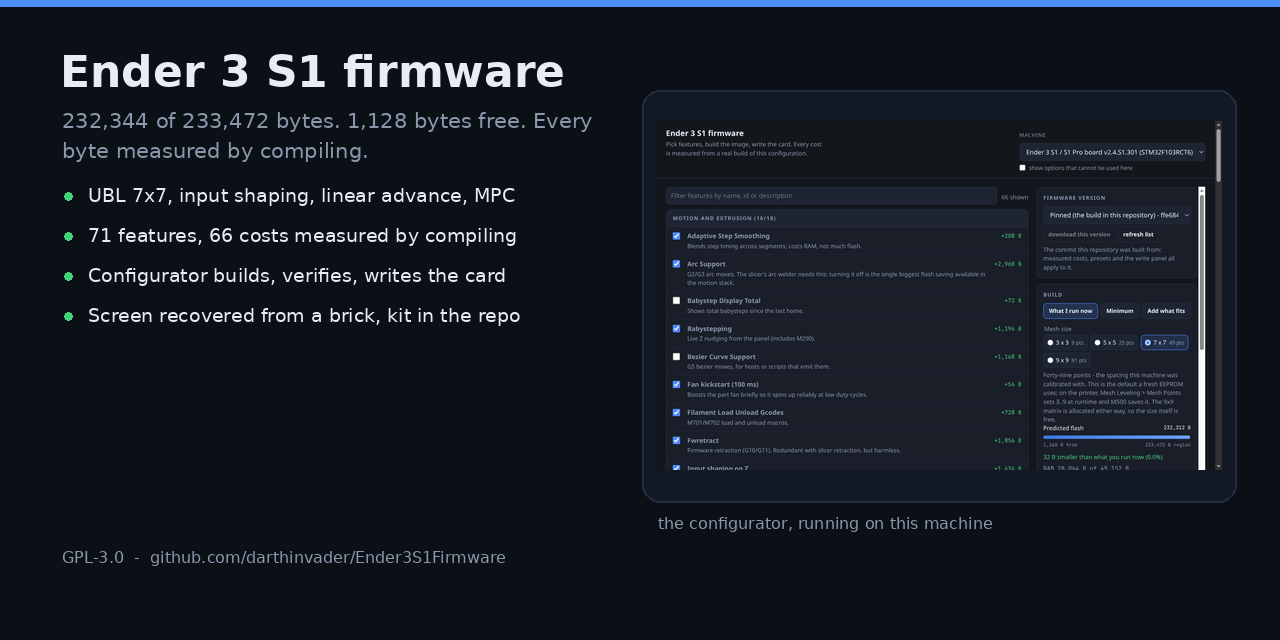
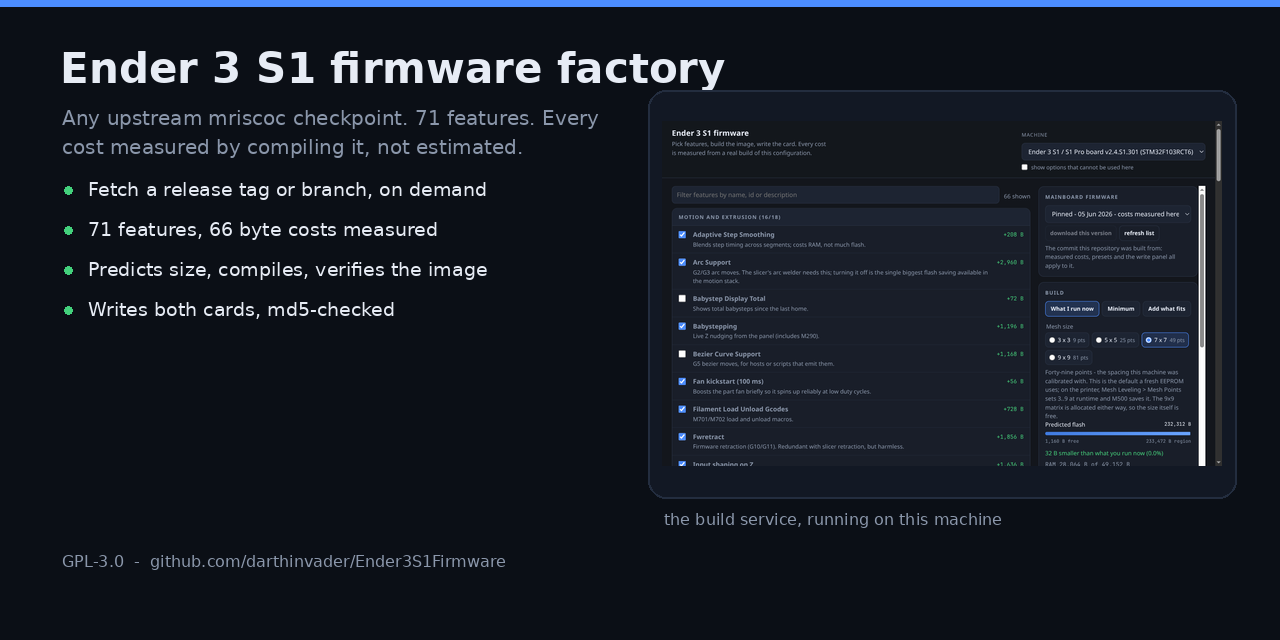
Say what the project is: a build factory, not one printer's firmware
The first screen sold a single build. The project is the service: any upstream
mriscoc checkpoint (tag or branch, fetched on demand), 71 features, every cost
measured by compiling it on and off, then compile, verify the vector table and
write both cards. The reference build is the example, not the subject.

Rewrites the README opening, the CV page (one-liner, thirty seconds, bullets),
the Pages hero and cards, and the social preview to that story.

Also rebuilds the demo GIF so it explains itself: seven numbered frames with a
caption bar and the control under discussion ringed - choose a checkpoint, see
a measured cost, turn Arc Support off, watch the budget, build, read the
verified result (229,352 B, prediction exact).

diff --git a/docs/index.html b/docs/index.html
@@ -3,8 +3,8 @@
 <head>
 <meta charset="utf-8">
 <meta name="viewport" content="width=device-width, initial-scale=1">
-<title>Ender 3 S1 firmware - a Marlin build with the receipts</title>
-<meta name="description" content="Custom Marlin firmware for a Creality Ender 3 S1: 232,344 of 233,472 bytes used, every feature cost measured, and a configurator that compiles and writes the image.">
+<title>Ender 3 S1 firmware factory - any checkpoint, measured to the byte</title>
+<meta name="description" content="A local firmware factory for Ender 3 S1-class printers: any upstream mriscoc checkpoint, 71 features, every cost measured in bytes, and a service that compiles, verifies and writes the SD card.">
 <meta property="og:image" content="img/social-preview.png">
 <style>
   :root { color-scheme: dark; }
@@ -36,10 +36,11 @@
 <body>
 <div class="wrap">
   <header>
-    <h1>Ender 3 S1 firmware</h1>
-    <p class="sub">A custom Marlin build for a Creality Ender 3 S1 on a 256 KiB STM32F103:
-      <b>232,344 of 233,472 bytes used</b>, 1,128 bytes free, and every feature cost measured by
-      compiling it on and off rather than estimated.</p>
+    <h1>Ender 3 S1 firmware factory</h1>
+    <p class="sub">Pick <b>any upstream mriscoc checkpoint</b> &mdash; release tag or branch, fetched on demand &mdash;
+      tick features, and get a compiled, verified image plus a written SD card. Every feature cost was
+      measured by compiling it on and off, so the size is predicted to the byte before anything runs.
+      The reference build: <b>232,344 of 233,472 bytes</b>, 1,128 bytes free.</p>
     <div class="badges">
       <a href="https://github.com/darthinvader/Ender3S1Firmware/actions/workflows/verify.yml"><img src="https://github.com/darthinvader/Ender3S1Firmware/actions/workflows/verify.yml/badge.svg" alt="verify"></a>
       <a href="https://github.com/darthinvader/Ender3S1Firmware/actions/workflows/build.yml"><img src="https://github.com/darthinvader/Ender3S1Firmware/actions/workflows/build.yml/badge.svg" alt="rebuild"></a>
@@ -49,21 +50,23 @@
 
   <h2>What it is</h2>
   <div class="grid">
-    <div class="card"><b>232,344 B</b><span>flash used of 233,472 B available</span></div>
-    <div class="card"><b>28,064 B</b><span>RAM used of 49,152 B</span></div>
-    <div class="card"><b>71 / 66</b><span>catalogue features / with a measured cost</span></div>
-    <div class="card"><b>0 B</b><span>predictor error on the shipped build</span></div>
+    <div class="card"><b>28</b><span>checkpoints: upstream tags, branches, and the pinned build</span></div>
+    <div class="card"><b>71 / 66</b><span>catalogue features / with a measured byte cost</span></div>
+    <div class="card"><b>0 B</b><span>predictor error on the reference build</span></div>
+    <div class="card"><b>&lt; 1 min</b><span>selection to verified image, log streaming</span></div>
   </div>
 
   <h2>The configurator</h2>
   <figure>
     <img class="shot" src="img/configurator-demo.gif" alt="The configurator building a selection">
-    <figcaption>Pick features, watch the measured budget, build, and write the SD card - one local service, no framework.</figcaption>
+    <figcaption>Seven frames: choose a checkpoint, see a measured cost, turn it off, watch the budget, build, read the verified result.</figcaption>
   </figure>
 
   <h2>What is in the repository</h2>
   <ul>
-    <li>The compiled firmware and display assets, with manifests and MD5s.</li>
+    <li>A build service that fetches any upstream checkpoint, applies a selection, compiles,
+      verifies the ARM vector table and writes both cards.</li>
+    <li>The compiled reference firmware and display assets, with manifests and MD5s.</li>
     <li>The exact configuration that produced them, and every hand edit with <code>file:line</code>.</li>
     <li>A pinned, reproducible build chain and <code>make verify</code> (checksums, ARM vector tables,
       configuration assertions, 162 documentation links, 14 live service checks).</li>

diff --git a/docs/PORTFOLIO.md b/docs/PORTFOLIO.md
@@ -7,35 +7,34 @@ repository, and each row links to where it is proven.
 
 ## One line
 
-> Custom Marlin firmware for a Creality Ender 3 S1 that fits a 1,128-byte
-> flash budget, with a measured feature-cost harness and a local configurator
-> that compiles, checks and writes the image.
+> A local firmware factory for Ender 3 S1-class printers: choose any upstream
+> mriscoc checkpoint, tick features, and get a verified, checksummed image and a
+> written SD card - with every feature's byte cost measured, not estimated.
 
 ## Thirty seconds
 
-I run a Ender 3 S1 on mriscoc's Professional Firmware (Marlin 2.1.x) on an
-STM32F103 with 233,472 bytes of usable flash. I specify the configuration, keep
-the build reproducible against pinned upstream commits, and measured what every
-single option costs by compiling it on and off - 66 of the 71 catalogue features
-have a real byte cost, not an estimate. On top of that I built a local
-configurator that predicts the image size to the byte, refuses combinations that
-cannot fit, compiles any mriscoc release or a git branch, and writes the SD card
-for both the mainboard and the display panel. The display bricked during the
-work; I diagnosed it, recovered it, and the recovery kit is in the repository.
+Ender 3 S1-class printers run Marlin on an STM32F103 with 233,472 bytes of usable
+flash, and a tenth of the chip is already gone to the bootloader. I built a
+local service that turns 'I want these features, on that upstream checkpoint'
+into a compiled, verified image: it fetches any mriscoc release tag or branch,
+applies a 71-feature selection, predicts the size to the byte because every
+feature's cost was measured by compiling it on and off, refuses what cannot fit,
+and writes the SD card for both processors. The reference build it was written
+for is in this repository with the full receipts; the display bricked during
+that work, and the recovery kit is here too.
 
 ## CV bullets (paste-ready)
 
-- Rebuilt a Creality Ender 3 S1 on Marlin 2.1.x / mriscoc ProUI within a
-  **1,128-byte flash margin** (232,344 of 233,472 bytes), choosing features by
-  measured cost rather than guesswork.
-- Built a **feature-cost measurement harness** (`tools/configurator/measure.py`)
-  that compiles every option on and off and writes the delta back into a
-  catalogue: 71 features, 66 measured, plus a predictor whose error on the
-  shipped build is **0 bytes**.
-- Wrote a **local configurator** (Python stdlib HTTP service + vanilla JS, no
-  framework, no build step) that compiles the selected firmware, verifies the ARM
-  vector table, and writes a bootable SD card for the mainboard and the display,
-  md5-checking every copy.
+- Built a **firmware build service** (Python stdlib HTTP service + vanilla JS, no
+  framework) that assembles custom Marlin images from **any upstream mriscoc
+  checkpoint** - release tags and branches, fetched on demand - applying a
+  71-feature selection and refusing selections that cannot fit.
+- Measured **every feature's cost** by compiling it on and off (`measure.py`) and
+  wrote the deltas back into a catalogue - 71 features, 66 measured - giving a
+  predictor whose error on the reference build is **0 bytes**.
+- Closed the loop in the service: compile, **verify the ARM vector table**, check
+  the budget, and **write a bootable FAT32 card** for the mainboard and the display
+  with md5 verification of every copy - all from the browser.
 - Recovered a **bricked display panel** by isolating a mismatched asset pack,
   and shipped the recovery kit plus the evidence trail
   ([docs/SCREEN.md](SCREEN.md)).

diff --git a/README.md b/README.md
@@ -1,4 +1,6 @@
-# Ender 3 S1 — a custom Marlin build with the receipts
+# Ender 3 S1 firmware factory
+
+**Pick any upstream checkpoint, pick features, get a verified image and a written card — with every cost measured in bytes, not estimated.**
 
 [![firmware](https://img.shields.io/badge/firmware-v2%20%C2%B7%202026--07--30-brightgreen)](CHANGELOG.md)
 [![base](https://img.shields.io/badge/base-Marlin%202.1.4%20MRiscoC-blue)](docs/BUILD.md)
@@ -9,11 +11,11 @@
 [![rebuild](https://github.com/darthinvader/Ender3S1Firmware/actions/workflows/build.yml/badge.svg)](https://github.com/darthinvader/Ender3S1Firmware/actions/workflows/build.yml)
 [![configurator](https://github.com/darthinvader/Ender3S1Firmware/actions/workflows/configurator.yml/badge.svg)](https://github.com/darthinvader/Ender3S1Firmware/actions/workflows/configurator.yml)
 
-Custom Marlin firmware for a Creality **Ender 3 S1**: unified bed leveling with a 7x7 mesh, input shaping, linear advance, predictive temperature control and cable flashing - on a 256 KiB STM32F103 with a 28 KiB bootloader eating a tenth of it.
+This repository is a **build service for Ender 3 S1-class Marlin firmware**, plus the reference build it was written for. The service starts from **any upstream mriscoc checkpoint** — a release tag or a branch, fetched on demand — applies a feature selection, compiles it, checks the ARM vector table, and hands back an image, a manifest and a ready SD card for both the mainboard and the display.
 
-The build uses **232,344 of the 233,472 available bytes**. 1,128 bytes were left free. That constraint, not the feature list, is what this project is actually about.
+The reference build uses **232,344 of the 233,472 available bytes** — 1,128 bytes free. That constraint is why the service exists: it can tell you what a feature costs **before** it compiles, because every price in the catalogue came from building that feature on and off. On the reference build the predictor's error is **0 bytes**.
 
-This repository ships the compiled binaries, the exact configuration that produced them, a pinned reproducible build, the screen-recovery kit, and the calibration record - including the parts that did not work.
+It ships the service, the measurement harness behind the catalogue, the compiled binaries with their manifests, the screen-recovery kit, and the calibration record — including the parts that did not work.
 
 ---
 
@@ -161,7 +163,9 @@ Everything on the page is served from the same process - there is no separate fr
 
 ## Configurator (optional)
 
-![The configurator building a selection](docs/img/configurator-demo.gif)
+![The build service, step by step: choose a checkpoint, measure a feature, build, verify](docs/img/configurator-demo.gif)
+
+*Seven numbered frames: choose a checkpoint, see a measured feature cost, turn it off, watch the budget, build, read the verified result.*
 
 
 A local web app does the feature picking and the compiling for you: tick what you want, watch the flash budget, press build, download the image.
